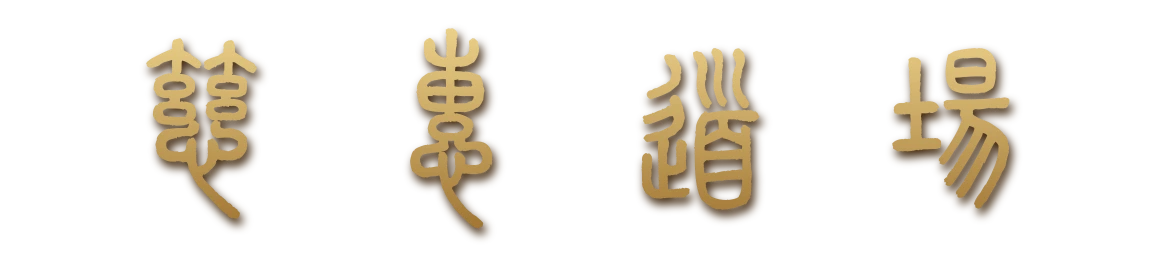
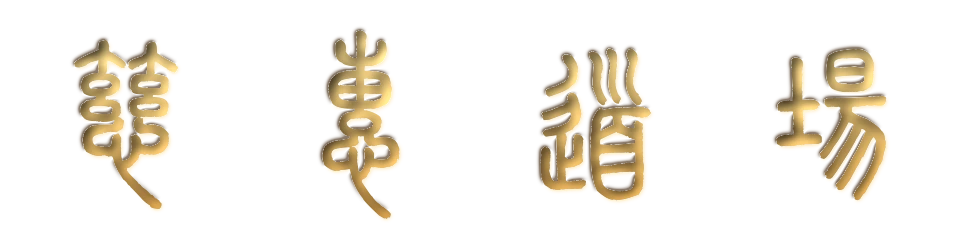
匾額字改成陰刻：挖進木頭、槽裡貼金

diff --git a/style.css b/style.css
@@ -226,7 +226,7 @@ body {
   position: absolute;
   z-index: 2;
 }
-/* 匾額上的字：崇羲篆體金箔字（預先畫好的圖，見 tools/render_plaque.py） */
+/* 匾額上的字：崇羲篆體陰刻金字（挖進木頭、槽裡貼金；預先畫好的圖，見 tools/render_plaque.py） */
 .plaque {
   position: absolute;
   z-index: 4;
